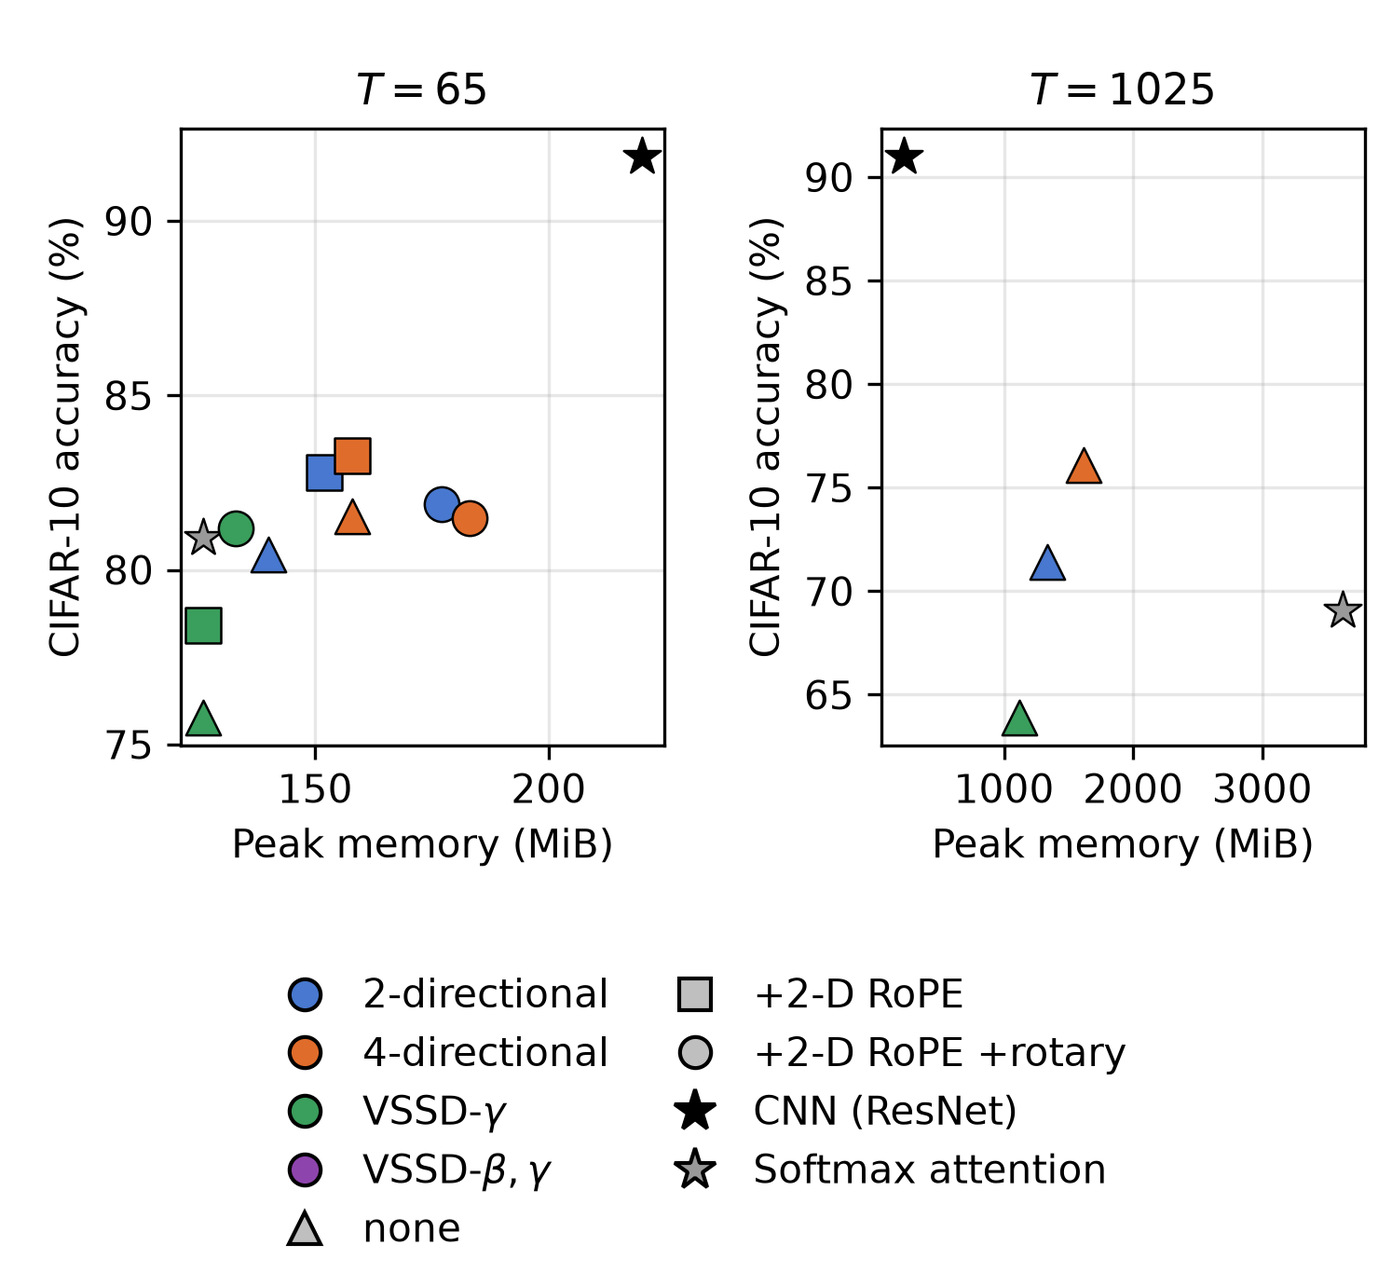
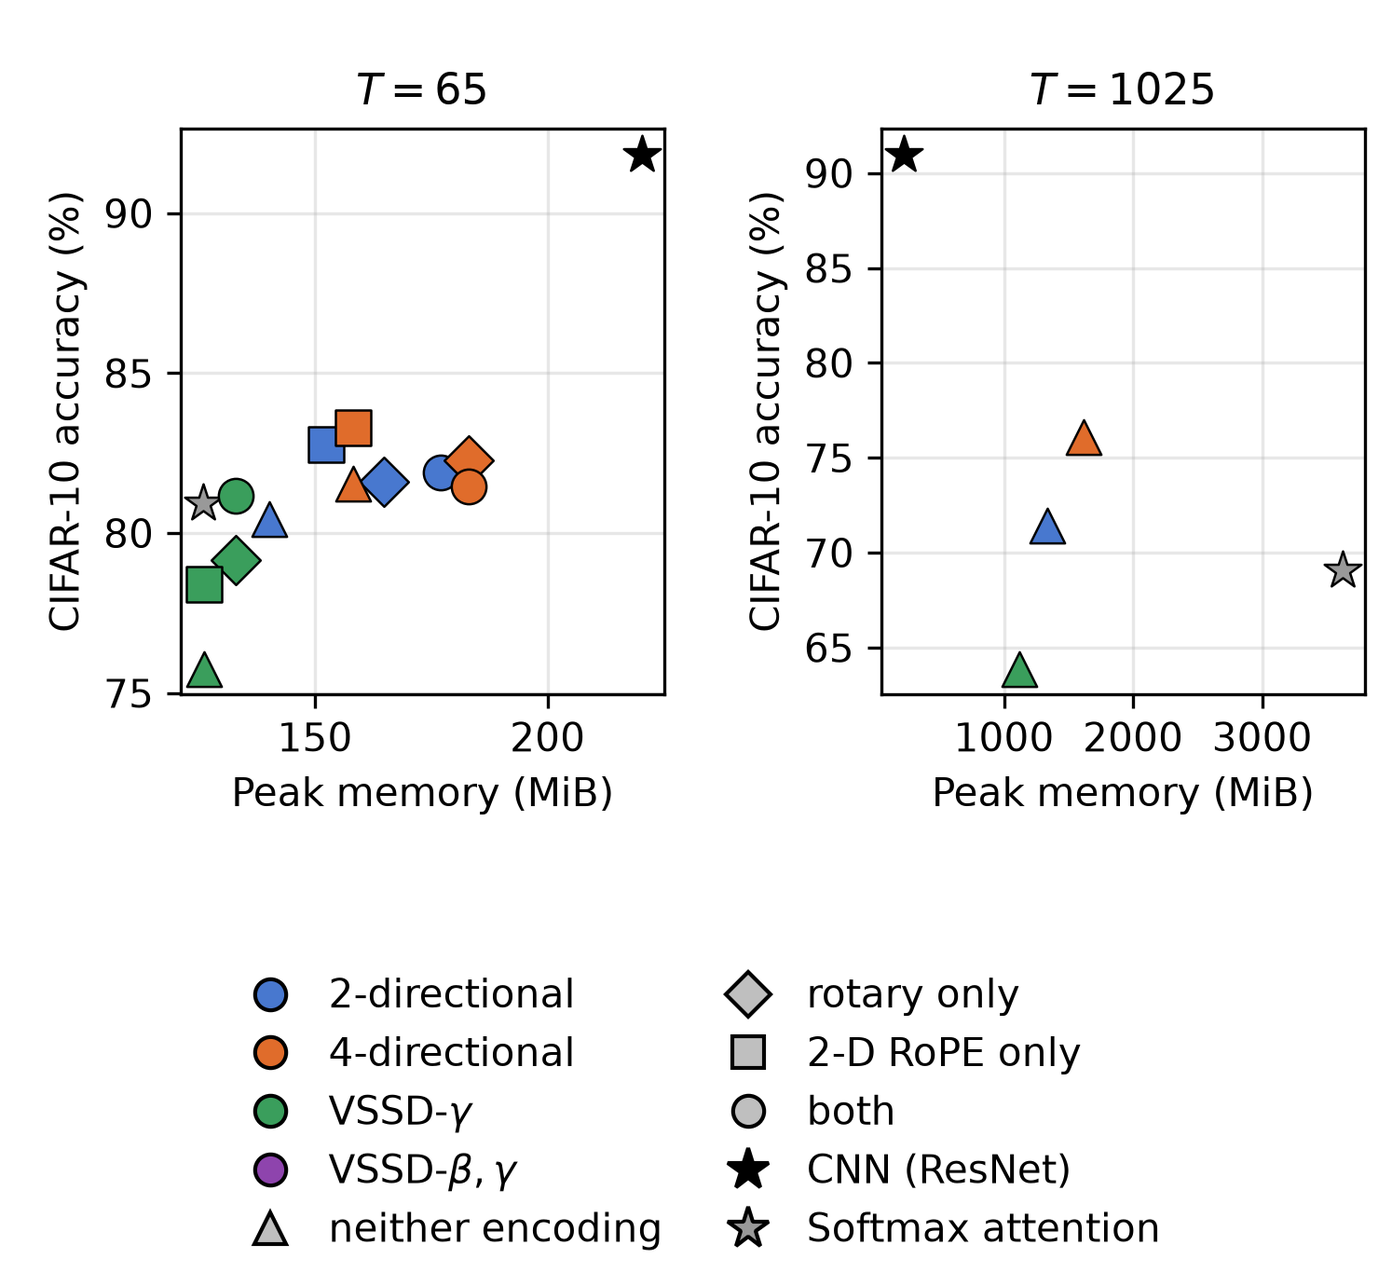
Table 1: add the rotary-only cell, completing a 2x2 per operator
Adding rotary-only turns the three-column grid into a {2-D RoPE on/off} x {rotary
on/off} factorial, and it overturns what this section concluded without it.

Three of the four cells already existed in result/vm3_ablation_patch4_norope_rotary
(rope=False, rope_angles=True, same recipe): 2-dir 81.59, 4-dir 82.27,
VSSD-gamma 79.15. That run predates the RoPE2D pairing fix but never touches the
fixed code -- RoPE is off in it -- and apply_cumulative_rope was verified
bit-identical across the rotate_pairs refactor, so the numbers stand. Only
VSSD-beta,gamma needs a new run; run_vssd_bg.sh now sweeps all four of its cells.

What changes: main effects are positive everywhere.

    operator   rotary alone  RoPE alone   sum   together   interaction
    2-dir            +1.15       +2.34   +3.49     +1.45         -2.04
    4-dir            +0.73       +1.74   +2.47     -0.07         -2.54
    VSSD-gamma       +3.39       +2.64   +6.03     +5.42         -0.61

The rotary is not harmful to the scan operators. It helps them by +1.15 and +0.73
when it is the only encoding present. What is negative is the *interaction* --
-2.04 and -2.54, against -0.61 for VSSD-gamma, which is inside the 0.67 repeat
spread and so indistinguishable from the two encodings simply adding. The previous
text read the marginal deltas (-0.89, -1.81) as the rotary costing those operators
accuracy, which is what a grid without a rotary-only cell cannot distinguish. The
[…]

diff --git a/scripts/make_ablation_table.py b/scripts/make_ablation_table.py
@@ -2,9 +2,18 @@
 """Emit the Vision Mamba-3 ablation table and memory-vs-accuracy plot for
 doc/attention/mamba3_attention.tex.
 
-The grid is {2-dir, 4-dir, VSSD-gamma, VSSD-beta,gamma} x {no positional encoding, 2-D RoPE,
-2-D RoPE + Mamba-3 rotary}, at both sequence lengths, plus the softmax and CNN
-baselines for context.
+The grid is {2-dir, 4-dir, VSSD-gamma, VSSD-beta,gamma} x a 2x2 of
+{2-D RoPE on/off} x {Mamba-3 rotary on/off}, at both sequence lengths, plus the
+softmax and CNN baselines for context. The rotary-only cell is what lets the
+rotary's own effect be separated from its interaction with 2-D RoPE: alone it helps
+every operator, but on top of RoPE it is redundant for the scan operators.
+
+Operator and encoding are separate fields rather than one concatenated label. That
+is narrower in the table -- the concatenated form overflowed the text width once
+VSSD-beta,gamma's rows existed, silently clipping the T=1025 memory column -- and it
+lets the plot's colour/marker lookup read the encoding directly. Deriving it by
+substring instead is a trap: "both" contains "rotary", and "+2-D RoPE +rotary"
+contains "+2-D RoPE", so the answer depended on the order of the tests.
 
 Numbers are read from the run directories, never typed in, so the table cannot
 drift from what was measured. A cell with no run prints as "--" rather than being
@@ -31,26 +40,64 @@ from matplotlib.lines import Line2D  # noqa: E402
 REPO = Path(__file__).resolve().parents[1]
 OUT_DIR = REPO / "doc" / "attention"
 
-# (row label, variant, result dir for T=65, result dir for T=1025)
+# Encoding keys. These are the literal strings printed in the table's Enc. column
+# and the keys for the plot's markers, so the two cannot disagree.
+NONE, ROT, ROPE, BOTH = "---", "rotary", "2-D RoPE", "both"
+
+ENC_MARKERS = {NONE: "^", ROT: "D", ROPE: "s", BOTH: "o"}
+ENC_LABELS = {NONE: "neither encoding", ROT: "rotary only",
+              ROPE: "2-D RoPE only", BOTH: "both"}
+OP_COLOURS = {
+    "2-dir SSD": "#4878CF",
+    "4-dir SSD": "#E06C2B",
+    r"VSSD-$\gamma$": "#3A9E5C",
+    r"VSSD-$\beta,\gamma$": "#8E44AD",
+}
+OP_LABELS = {
+    "2-dir SSD": "2-directional",
+    "4-dir SSD": "4-directional",
+    r"VSSD-$\gamma$": r"VSSD-$\gamma$",
+    r"VSSD-$\beta,\gamma$": r"VSSD-$\beta,\gamma$",
+}
+BASE_COLOURS = {"CNN (ResNet)": "black", "Softmax attention": "0.6"}
+
+# (operator, encoding, variant, result dir for T=65, result dir for T=1025)
 # Only post-pairing-fix directories are listed for cells that enable both encodings.
 ROWS = [
-    ("CNN (ResNet)", "cnn", "table1_patch4", "table1_patch1"),
-    ("Softmax attention", "vit_attn", "table1_patch4", "table1_patch1"),
-    ("2-dir SSD", "vit_mamba3", "vm3_ablation_patch4_norope", "vm3_t1025_norope"),
-    ("2-dir SSD, +2-D RoPE", "vit_mamba3", "vm3_ropeonly_recheck", "vm3_t1025_rope"),
-    ("2-dir SSD, +2-D RoPE +rotary", "vit_mamba3", "vm3_interleaved_vit_mamba3", "vm3_t1025_rope_rotary"),
-    ("4-dir SSD", "vit_mamba3_4dir", "vm3_ablation_patch4_norope", "vm3_t1025_norope"),
-    ("4-dir SSD, +2-D RoPE", "vit_mamba3_4dir", "vm3_ropeonly_recheck", "vm3_t1025_rope"),
-    ("4-dir SSD, +2-D RoPE +rotary", "vit_mamba3_4dir", "vm3_interleaved_vit_mamba3_4dir", "vm3_t1025_rope_rotary"),
-    (r"VSSD-$\gamma$", "vit_mamba3_vssd", "vm3_ablation_patch4_norope", "vm3_t1025_norope"),
-    (r"VSSD-$\gamma$, +2-D RoPE", "vit_mamba3_vssd", "vm3_ropeonly_recheck", "vm3_t1025_rope"),
-    (r"VSSD-$\gamma$, +2-D RoPE +rotary", "vit_mamba3_vssd", "vm3_interleaved_vit_mamba3_vssd", "vm3_t1025_rope_rotary"),
-    # VSSD-beta,gamma: its own dirs, because it was added after the 3x3 sweep and
+    ("CNN (ResNet)", NONE, "cnn", "table1_patch4", "table1_patch1"),
+    ("Softmax attention", NONE, "vit_attn", "table1_patch4", "table1_patch1"),
+
+    ("2-dir SSD", NONE, "vit_mamba3", "vm3_ablation_patch4_norope", "vm3_t1025_norope"),
+    ("2-dir SSD", ROT, "vit_mamba3", "vm3_ablation_patch4_norope_rotary", "vm3_t1025_rotary"),
+    ("2-dir SSD", ROPE, "vit_mamba3", "vm3_ropeonly_recheck", "vm3_t1025_rope"),
+    ("2-dir SSD", BOTH, "vit_mamba3", "vm3_interleaved_vit_mamba3", "vm3_t1025_rope_rotary"),
+
+    ("4-dir SSD", NONE, "vit_mamba3_4dir", "vm3_ablation_patch4_norope", "vm3_t1025_norope"),
+    ("4-dir SSD", ROT, "vit_mamba3_4dir", "vm3_ablation_patch4_norope_rotary", "vm3_t1025_rotary"),
+    ("4-dir SSD", ROPE, "vit_mamba3_4dir", "vm3_ropeonly_recheck", "vm3_t1025_rope"),
+    ("4-dir SSD", BOTH, "vit_mamba3_4dir", "vm3_interleaved_vit_mamba3_4dir", "vm3_t1025_rope_rotary"),
+
+    (r"VSSD-$\gamma$", NONE, "vit_mamba3_vssd", "vm3_ablation_patch4_norope", "vm3_t1025_norope"),
+    (r"VSSD-$\gamma$", ROT, "vit_mamba3_vssd", "vm3_ablation_patch4_norope_rotary", "vm3_t1025_rotary"),
+    (r"VSSD-$\gamma$", ROPE, "vit_mamba3_vssd", "vm3_ropeonly_recheck", "vm3_t1025_rope"),
+    (r"VSSD-$\gamma$", BOTH, "vit_mamba3_vssd", "vm3_interleaved_vit_mamba3_vssd", "vm3_t1025_rope_rotary"),
+
+    # VSSD-beta,gamma: its own dirs, because it was added after the first sweep and
     # is not parameter-matched with the rows above (2.93 M vs 2.71 M).
-    (r"VSSD-$\beta,\gamma$", "vit_mamba3_vssd_bg", "vm3_vssdbg_norope", "vm3_t1025_vssdbg_norope"),
-    (r"VSSD-$\beta,\gamma$, +2-D RoPE", "vit_mamba3_vssd_bg", "vm3_vssdbg_rope", "vm3_t1025_vssdbg_rope"),
-    (r"VSSD-$\beta,\gamma$, +2-D RoPE +rotary", "vit_mamba3_vssd_bg", "vm3_vssdbg_rope_rotary", "vm3_t1025_vssdbg_rope_rotary"),
+    (r"VSSD-$\beta,\gamma$", NONE, "vit_mamba3_vssd_bg", "vm3_vssdbg_norope", "vm3_t1025_vssdbg_norope"),
+    (r"VSSD-$\beta,\gamma$", ROT, "vit_mamba3_vssd_bg", "vm3_vssdbg_norope_rotary", "vm3_t1025_vssdbg_rotary"),
+    (r"VSSD-$\beta,\gamma$", ROPE, "vit_mamba3_vssd_bg", "vm3_vssdbg_rope", "vm3_t1025_vssdbg_rope"),
+    (r"VSSD-$\beta,\gamma$", BOTH, "vit_mamba3_vssd_bg", "vm3_vssdbg_rope_rotary", "vm3_t1025_vssdbg_rope_rotary"),
 ]
+
+# Point labels used to be drawn inline next to each marker, but with a dozen-plus
+# points per panel the labels overlapped each other and the markers (see git
+# history). Colour and marker already encode operator and positional encoding, so a
+# legend replaces them entirely -- no in-plot text left to overlap. Sized so the
+# legend/tick/axis text reads at >= \small (10pt), matching the smallest font size
+# already used elsewhere in mamba3_attention.tex (the ablation table), once scaled
+# by \linewidth / FIG_W.
+FIG_W = 360 / 72.27  # pt -> in; matches mamba3_attention.tex's \textwidth exactly
 
 
 def cell(run_dir: str, variant: str) -> dict | None:
@@ -76,16 +123,16 @@ def write_table(rows) -> None:
     # \hline style, matching the tables already in mamba3_attention.tex, so the
     # doc needs no extra package.
     lines = [
-        r"\begin{tabular}{|l|c|ccc|ccc|}",
+        r"\begin{tabular}{|l|l|c|ccc|ccc|}",
         r"\hline",
-        r" & & \multicolumn{3}{c|}{$T{=}65$} & \multicolumn{3}{c|}{$T{=}1025$} \\",
-        r"Operator & Params (M) & Acc.\,(\%) & Lat.\,(ms) & Mem (MiB)"
-        r" & Acc.\,(\%) & Lat.\,(ms) & Mem (MiB) \\ \hline",
+        r" & & & \multicolumn{3}{c|}{$T{=}65$} & \multicolumn{3}{c|}{$T{=}1025$} \\",
+        r"Operator & Enc. & Par.\,(M) & Acc.\,(\%) & Lat.\,(ms) & Mem"
+        r" & Acc.\,(\%) & Lat.\,(ms) & Mem \\ \hline",
     ]
-    for label, a, b in rows:
+    for op, enc, a, b in rows:
         params = (a or b or {}).get("params")
         lines.append(
-            f"{label} & {fmt(params, '.2f')} "
+            f"{op} & {enc} & {fmt(params, '.2f')} "
             f"& {fmt(a and a['acc'], '.2f')} & {fmt(a and a['lat'], '.1f')} & {fmt(a and a['mem'], '.0f')} "
             f"& {fmt(b and b['acc'], '.2f')} & {fmt(b and b['lat'], '.1f')} & {fmt(b and b['mem'], '.0f')} \\\\ \\hline"
         )
@@ -94,65 +141,45 @@ def write_table(rows) -> None:
     print(f"wrote {OUT_DIR / 'ablation_table.tex'}")
 
 
-FAM_COLOURS = {"2-dir": "#4878CF", "4-dir": "#E06C2B", "VSSD": "#3A9E5C", "VSSD-bg": "#8E44AD"}
-FAM_LABELS = {"2-dir": "2-directional", "4-dir": "4-directional",
-              "VSSD": r"VSSD-$\gamma$", "VSSD-bg": r"VSSD-$\beta,\gamma$"}
-ENC_MARKERS = {"none": "^", "RoPE": "s", "rotary": "o"}
-ENC_LABELS = {"none": "none", "RoPE": "+2-D RoPE", "rotary": "+2-D RoPE +rotary"}
-BASE_COLOURS = {"CNN (ResNet)": "black", "Softmax attention": "0.6"}
+def _legend_handles() -> list[Line2D]:
+    def mark(marker, face, size, label):
+        return Line2D([0], [0], marker=marker, linestyle="", markerfacecolor=face,
+                      markeredgecolor="black", markersize=size, label=label)
 
-# Point labels used to be drawn inline next to each marker, but with 11 points per
-# panel the labels overlapped each other and the markers (see git history). Colour
-# and marker already encode family/positional-encoding, so a legend replaces them
-# entirely -- no in-plot text left to overlap. Sized so the legend/tick/axis text
-# reads at >= \small (10pt), matching the smallest font size already used elsewhere
-# in mamba3_attention.tex (the ablation table), once scaled by \linewidth / FIG_W.
-FIG_W = 360 / 72.27  # pt -> in; matches mamba3_attention.tex's \textwidth exactly
+    return (
+        [mark("o", OP_COLOURS[k], 8, OP_LABELS[k]) for k in OP_COLOURS]
+        + [mark(ENC_MARKERS[k], "0.75", 8, ENC_LABELS[k]) for k in (NONE, ROT, ROPE, BOTH)]
+        + [mark("*", BASE_COLOURS[k], 11, k) for k in BASE_COLOURS]
+    )
 
 
 def write_plot(rows) -> None:
     fig, axes = plt.subplots(1, 2, figsize=(FIG_W, 4.6))
     for ax, idx, title in ((axes[0], 0, r"$T=65$"), (axes[1], 1, r"$T=1025$")):
-        for label, a, b in rows:
+        for op, enc, a, b in rows:
             d = (a, b)[idx]
             if d is None:
                 continue
-            base = "CNN" in label or "Softmax" in label
-            fam = ("2-dir" if "2-dir" in label else "4-dir" if "4-dir" in label
-                   else "VSSD-bg" if "beta" in label else "VSSD")
-            enc = "rotary" if "rotary" in label else ("RoPE" if "RoPE" in label else "none")
-            colour = BASE_COLOURS[label] if base else FAM_COLOURS[fam]
-            mk = "*" if base else ENC_MARKERS[enc]
-            ax.scatter(d["mem"], d["acc"], s=100 if base else 80, marker=mk,
-                       color=colour, edgecolors="black", linewidths=0.6, zorder=3)
+            base = op in BASE_COLOURS
+            ax.scatter(d["mem"], d["acc"], s=100 if base else 80,
+                       marker="*" if base else ENC_MARKERS[enc],
+                       color=BASE_COLOURS[op] if base else OP_COLOURS[op],
+                       edgecolors="black", linewidths=0.6, zorder=3)
         ax.set_xlabel("Peak memory (MiB)", fontsize=10)
         ax.set_ylabel("CIFAR-10 accuracy (%)", fontsize=10)
         ax.set_title(title, fontsize=11)
         ax.tick_params(labelsize=10)
         ax.grid(alpha=0.3)
 
-    handles = [
-        Line2D([0], [0], marker="o", linestyle="", markerfacecolor=FAM_COLOURS[k],
-               markeredgecolor="black", markersize=8, label=FAM_LABELS[k])
-        for k in ("2-dir", "4-dir", "VSSD", "VSSD-bg")
-    ] + [
-        Line2D([0], [0], marker=ENC_MARKERS[k], linestyle="", markerfacecolor="0.75",
-               markeredgecolor="black", markersize=8, label=ENC_LABELS[k])
-        for k in ("none", "RoPE", "rotary")
-    ] + [
-        Line2D([0], [0], marker="*", linestyle="", markerfacecolor=BASE_COLOURS[lbl],
-               markeredgecolor="black", markersize=11, label=lbl)
-        for lbl in ("CNN (ResNet)", "Softmax attention")
-    ]
     # ncol=2 (not 4): a 4-column legend is wider than the two subplots combined,
     # so bbox_inches="tight" grows the saved canvas to fit it -- silently breaking
     # the FIG_W == \linewidth point-for-point match every font size above relies
     # on. 2 columns fits inside the subplots' own width, so nothing overflows and
     # bbox_inches=None (below) saves at exactly figsize, no surprise rescale.
-    fig.legend(handles=handles, loc="lower center", ncol=2, fontsize=10,
+    fig.legend(handles=_legend_handles(), loc="lower center", ncol=2, fontsize=10,
                frameon=False, bbox_to_anchor=(0.5, 0.0),
                columnspacing=1.2, handletextpad=0.5)
-    fig.subplots_adjust(left=0.13, right=0.98, top=0.90, bottom=0.42, wspace=0.45)
+    fig.subplots_adjust(left=0.13, right=0.98, top=0.90, bottom=0.46, wspace=0.45)
     out = OUT_DIR / "ablation_mem_acc.png"
     fig.savefig(out, dpi=300)
     plt.close(fig)
@@ -160,8 +187,8 @@ def write_plot(rows) -> None:
 
 
 def main() -> int:
-    rows = [(label, cell(d65, v), cell(d1025, v)) for label, v, d65, d1025 in ROWS]
-    missing = [label for label, a, b in rows if a is None or b is None]
+    rows = [(op, enc, cell(d65, v), cell(d1025, v)) for op, enc, v, d65, d1025 in ROWS]
+    missing = [f"{op} {enc}" for op, enc, a, b in rows if a is None or b is None]
     write_table(rows)
     write_plot(rows)
     if missing:

diff --git a/doc/attention/mamba3_attention.tex b/doc/attention/mamba3_attention.tex
@@ -2277,8 +2277,10 @@ token's $(row,col)$ pixel position, applied \emph{before} the SSD kernel runs.
 Mamba-3's own complex-SSM rotary of \S\ref{sec:rope} is a data-\emph{dependent}
 rotation instead: a learned per-token angle that accumulates \emph{inside} the
 recurrence, with no direct notion of pixel position at all. Below, rows marked
-``+2-D RoPE'' have the first on and the second off; ``+2-D RoPE +rotary'' have
-both on. Table~\ref{tab:ablation} is the resulting $4\times3$ grid at
+the Enc.\ column reads ``2-D RoPE'' for the first alone, ``rotary'' for the second
+alone, ``both'' for both, and ``---'' for neither --- a $2\times2$ factorial per
+operator, so each encoding's own effect can be separated from the two interacting.
+Table~\ref{tab:ablation} is the resulting $4\times4$ grid at
 both sequence lengths, on CIFAR-10 under one fixed recipe (80 epochs at $T{=}65$,
 30 at $T{=}1025$; single seed, no variance bounds), with the softmax and CNN
 baselines measured alongside for reference. Numbers are generated directly from
@@ -2305,8 +2307,9 @@ Accuracy is best test accuracy; latency and peak memory are measured at batch 12
 on the same GPU. Two cautions in reading small differences: repeat runs of one
 configuration differed by $0.67$ points, so gaps below $\sim$$0.7$ are not
 meaningful, and every cell is a single seed. The VSSD-$\beta,\gamma$ rows are not
-parameter-matched with the rest ($2.93$\,M against $2.71$\,M); see the Params
-column.}
+parameter-matched with the rest ($2.93$\,M against $2.71$\,M); see the Par.\ column.
+Enc.: ``---'' neither encoding, ``rotary'' Mamba-3's complex rotary alone,
+``2-D RoPE'' the external encoding alone, ``both'' both. Mem is peak memory in MiB.}
 \label{tab:ablation}
 \small
 \input{ablation_table}
@@ -2324,10 +2327,33 @@ horizontally, which is the property the linear-time recurrence buys.}
 \end{figure}
 
 \paragraph{What the grid shows.}
-The rotary is not a free addition: it helps exactly the operator that otherwise has the
-least way to tell queries apart. At $T{=}65$, adding it on top of 2-D RoPE costs the
-2-directional operator $0.89$ points and the 4-directional one $1.81$, but gains
-VSSD-$\gamma$ $2.78$. That asymmetry is \emph{not} about position: the rotary's angle
+The rotary-only column is the one that changes the reading, and the reason this grid is
+a $2\times2$ per operator rather than three columns. As main effects and interaction at
+$T{=}65$:
+
+\begin{center}\small
+\begin{tabular}{|l|cc|cc|}
+\hline
+Operator & rotary alone & 2-D RoPE alone & sum of the two & measured together \\ \hline
+2-directional & $+1.15$ & $+2.34$ & $+3.49$ & $+1.45$ \\ \hline
+4-directional & $+0.73$ & $+1.74$ & $+2.47$ & $-0.07$ \\ \hline
+VSSD-$\gamma$ & $+3.39$ & $+2.64$ & $+6.03$ & $+5.42$ \\ \hline
+\end{tabular}
+\end{center}
+
+Every entry in the first two columns is positive: \emph{both} encodings help
+\emph{every} operator when it is the only one present. The rotary is therefore not
+harmful to the scan operators --- which is exactly how its marginal deltas ($-0.89$
+two-directional, $-1.81$ four-directional, $+2.78$ VSSD-$\gamma$) read when no
+rotary-only cell exists to compare against, and is what an earlier draft of this
+section concluded from precisely that missing column. What is negative is the
+\emph{interaction}: measured-together minus sum-of-the-two is $-2.04$ two-directional
+and $-2.54$ four-directional, against $-0.61$ for VSSD-$\gamma$, and that last figure
+is inside the $0.67$ repeat spread, i.e.\ indistinguishable from the two encodings
+simply adding. The encodings are individually useful everywhere, strongly redundant
+with each other on the scan operators, and close to complementary on VSSD-$\gamma$.
+
+That pattern is \emph{not} about position: the rotary's angle
 $\theta_t=\bm{W}_\theta\bm{x}_t$ \eqref{eq:dtheta} is a function of a token's own
 content only, never its index or grid location, so on its own it carries no
 relative-position information at all. What it does carry is a query-specific rotation
@@ -2338,13 +2364,14 @@ give every query its own full, per-pair interaction through the mask $L_{ij}$
 \S\ref{sec:ncssd-mamba3} shows VSSD-$\gamma$'s mask has instead collapsed to a single
 shared summary $\bm{H}$ that every query reads identically, so rotating $\bm{C}_i$ by
 its own content is close to the \emph{only} source of query-specific behaviour it has
---- which is why it helps so much. 2-D RoPE helps VSSD-$\gamma$ even more for a related
-reason ($+2.64$, against $+2.34$ two-directional and $+1.74$ four-directional): it gives
-the same query-specific rotation of $\bm{C}_i$, plus genuine relative-position
-information that the scan operators already had from their mask's decay and
-VSSD-$\gamma$ had none of at all. Either way, VSSD-$\gamma$ moves $75.76 \to 81.18$
-across the row. The implementation therefore defaults the rotary on for VSSD-$\gamma$
-and off for the scan operators.
+--- which is why it helps so much. 2-D RoPE helps VSSD-$\gamma$ for a related reason and
+also supplies what the rotary cannot: genuine relative-position information, which the
+scan operators already had from their mask's decay in $|i-j|$ and VSSD-$\gamma$ had
+none of at all. The two accounts together predict the interaction pattern above ---
+redundant where the operator already has both properties, additive where it has
+neither. VSSD-$\gamma$ moves $75.76 \to 81.18$ across its row. The implementation
+defaults to each operator's best cell: the rotary on for VSSD-$\gamma$, off for the
+scan operators, with 2-D RoPE on throughout.
 
 Two things the grid does \emph{not} establish, both because of the $0.67$-point
 repeat spread in the caption. Four-directional scanning is not shown to beat

diff --git a/doc/attention/ablation_table.tex b/doc/attention/ablation_table.tex
@@ -1,19 +1,23 @@
-\begin{tabular}{|l|c|ccc|ccc|}
+\begin{tabular}{|l|l|c|ccc|ccc|}
 \hline
- & & \multicolumn{3}{c|}{$T{=}65$} & \multicolumn{3}{c|}{$T{=}1025$} \\
-Operator & Params (M) & Acc.\,(\%) & Lat.\,(ms) & Mem (MiB) & Acc.\,(\%) & Lat.\,(ms) & Mem (MiB) \\ \hline
-CNN (ResNet) & 2.78 & 91.84 & 9.1 & 220 & 90.99 & 8.5 & 221 \\ \hline
-Softmax attention & 2.69 & 80.92 & 7.8 & 126 & 69.06 & 322.1 & 3622 \\ \hline
-2-dir SSD & 2.71 & 80.44 & 12.1 & 140 & 71.43 & 215.2 & 1336 \\ \hline
-2-dir SSD, +2-D RoPE & 2.71 & 82.78 & 14.1 & 152 & -- & -- & -- \\ \hline
-2-dir SSD, +2-D RoPE +rotary & 2.74 & 81.89 & 14.4 & 177 & -- & -- & -- \\ \hline
-4-dir SSD & 2.71 & 81.54 & 17.3 & 158 & 76.11 & 333.8 & 1620 \\ \hline
-4-dir SSD, +2-D RoPE & 2.71 & 83.28 & 21.3 & 158 & -- & -- & -- \\ \hline
-4-dir SSD, +2-D RoPE +rotary & 2.74 & 81.47 & 22.1 & 183 & -- & -- & -- \\ \hline
-VSSD-$\gamma$ & 2.71 & 75.76 & 9.5 & 126 & 63.88 & 166.3 & 1119 \\ \hline
-VSSD-$\gamma$, +2-D RoPE & 2.71 & 78.40 & 10.7 & 126 & -- & -- & -- \\ \hline
-VSSD-$\gamma$, +2-D RoPE +rotary & 2.74 & 81.18 & 12.2 & 133 & -- & -- & -- \\ \hline
-VSSD-$\beta,\gamma$ & -- & -- & -- & -- & -- & -- & -- \\ \hline
-VSSD-$\beta,\gamma$, +2-D RoPE & -- & -- & -- & -- & -- & -- & -- \\ \hline
-VSSD-$\beta,\gamma$, +2-D RoPE +rotary & -- & -- & -- & -- & -- & -- & -- \\ \hline
+ & & & \multicolumn{3}{c|}{$T{=}65$} & \multicolumn{3}{c|}{$T{=}1025$} \\
+Operator & Enc. & Par.\,(M) & Acc.\,(\%) & Lat.\,(ms) & Mem & Acc.\,(\%) & Lat.\,(ms) & Mem \\ \hline
+CNN (ResNet) & --- & 2.78 & 91.84 & 9.1 & 220 & 90.99 & 8.5 & 221 \\ \hline
+Softmax attention & --- & 2.69 & 80.92 & 7.8 & 126 & 69.06 & 322.1 & 3622 \\ \hline
+2-dir SSD & --- & 2.71 & 80.44 & 12.1 & 140 & 71.43 & 215.2 & 1336 \\ \hline
+2-dir SSD & rotary & 2.74 & 81.59 & 10.7 & 165 & -- & -- & -- \\ \hline
+2-dir SSD & 2-D RoPE & 2.71 & 82.78 & 14.1 & 152 & -- & -- & -- \\ \hline
+2-dir SSD & both & 2.74 & 81.89 & 14.4 & 177 & -- & -- & -- \\ \hline
+4-dir SSD & --- & 2.71 & 81.54 & 17.3 & 158 & 76.11 & 333.8 & 1620 \\ \hline
+4-dir SSD & rotary & 2.74 & 82.27 & 22.7 & 183 & -- & -- & -- \\ \hline
+4-dir SSD & 2-D RoPE & 2.71 & 83.28 & 21.3 & 158 & -- & -- & -- \\ \hline
+4-dir SSD & both & 2.74 & 81.47 & 22.1 & 183 & -- & -- & -- \\ \hline
+VSSD-$\gamma$ & --- & 2.71 & 75.76 & 9.5 & 126 & 63.88 & 166.3 & 1119 \\ \hline
+VSSD-$\gamma$ & rotary & 2.74 & 79.15 & 10.1 & 133 & -- & -- & -- \\ \hline
+VSSD-$\gamma$ & 2-D RoPE & 2.71 & 78.40 & 10.7 & 126 & -- & -- & -- \\ \hline
+VSSD-$\gamma$ & both & 2.74 & 81.18 & 12.2 & 133 & -- & -- & -- \\ \hline
+VSSD-$\beta,\gamma$ & --- & -- & -- & -- & -- & -- & -- & -- \\ \hline
+VSSD-$\beta,\gamma$ & rotary & -- & -- & -- & -- & -- & -- & -- \\ \hline
+VSSD-$\beta,\gamma$ & 2-D RoPE & -- & -- & -- & -- & -- & -- & -- \\ \hline
+VSSD-$\beta,\gamma$ & both & -- & -- & -- & -- & -- & -- & -- \\ \hline
 \end{tabular}
